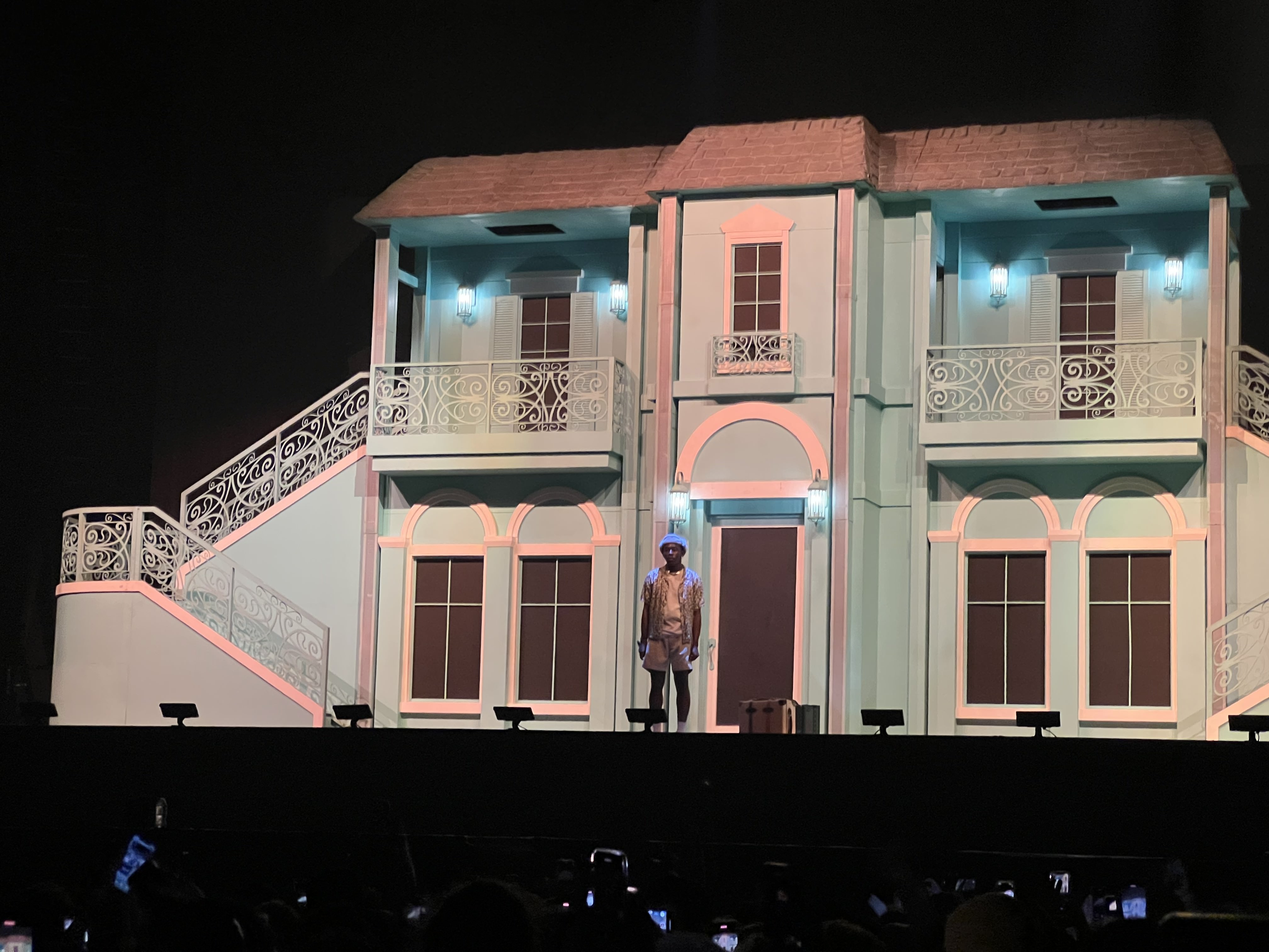
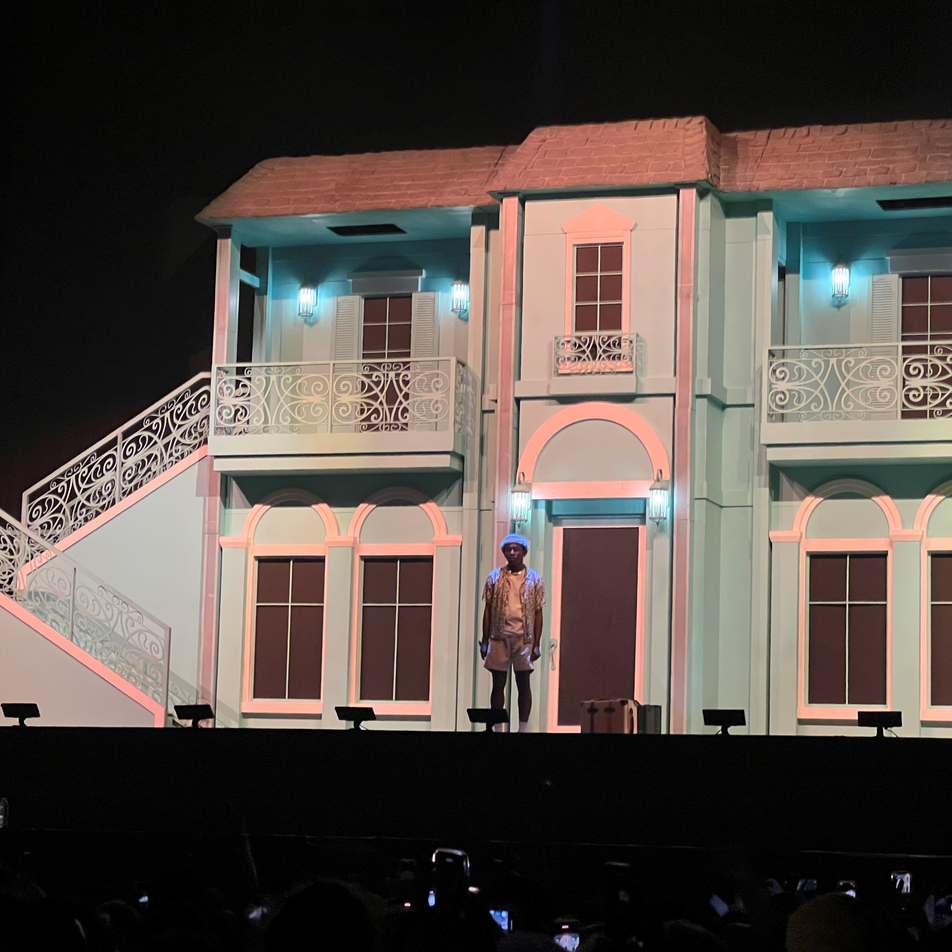
Incorporated Tyler thumbnail

diff --git a/src/events.js b/src/events.js
@@ -60,7 +60,7 @@ const musicEvents = [
         name: 'Tyler, The Creator',
         date: 'March 25th, 2022',
         venue: 'Gas South Arena',
-        thumbnail: 'https://resources.tidal.com/images/9db5f3a2/b872/45d6/8dbb/2b7a078be19e/640x640.jpg',
+        thumbnail: require('./images/tylerthecreator/tylerthumbnail.jpg'),
         path: 'tylerthecreator',
         description: 'Lorem ipsum dolor sit amet, consectetur adipiscing elit. Ut condimentum velit nisi, non dignissim diam rutrum et. Sed vehicula erat a varius aliquet. Ut dignissim purus id posuere euismod. Sed et justo gravida, gravida mauris eget, vestibulum erat. In condimentum ligula vitae magna luctus, vitae porttitor magna consectetur. Praesent dolor quam, mollis eu lacus a, accumsan interdum felis. Fusce a lectus tincidunt, interdum ante et, consequat leo. Curabitur facilisis viverra rhoncus. Donec rutrum ex non nunc fringilla cursus. Morbi sit amet interdum metus, in suscipit enim. Etiam pretium felis nibh, eu placerat odio malesuada nec. Sed nisi est, elementum id justo ac, viverra aliquam libero. Maecenas diam dolor, rhoncus vel tellus eu, euismod lobortis enim. Integer tristique iaculis aliquam. Duis lacinia libero a faucibus aliquam.',
         openers: ['Sabrina Claudio'],
